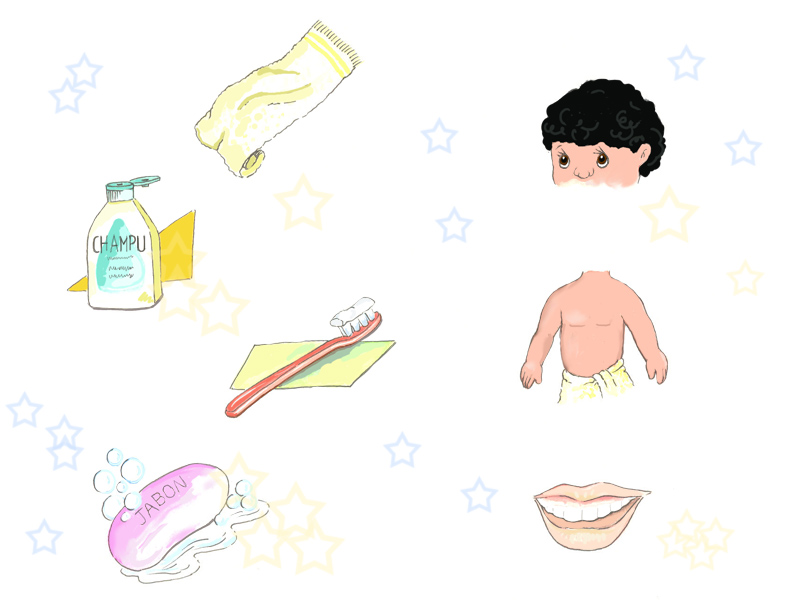
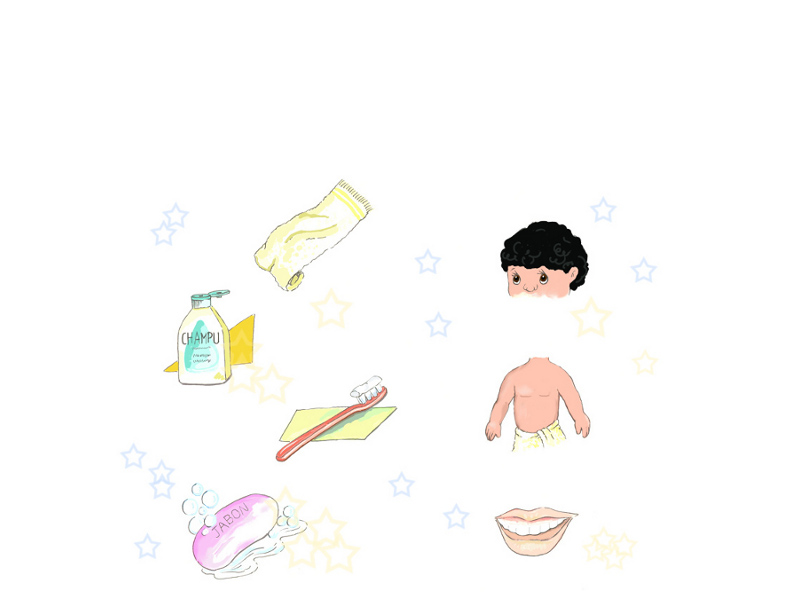
Se crea la versión inicial de la actividad 5
Se crea la versión inicial de la actividad 5, para ello se realizan
las modificaciones a illustration_007.jpg y se modifica menu.py y constants

diff --git a/src/links.py b/src/links.py
@@ -1,0 +1,117 @@
+# vim:ts=4:sts=4:et:nowrap:tw=77
+# -*- coding: utf-8 -*-
+
+import sys
+import pygame
+
+import constants
+import common
+from activity import Activity
+
+# Activity 7
+class Shower(Activity):
+    def __init__(self, screen):
+        Activity.__init__(self, screen)
+        self.items_rect = {
+                'towel': pygame.Rect(260, 186, 102, 100),
+                'shampoo': pygame.Rect(170, 295, 80, 85),
+                'brush': pygame.Rect(285, 385, 105, 65),
+                'soap': pygame.Rect(195, 498, 90, 65),
+                'hair': pygame.Rect(507, 227, 74, 65),
+                'body': pygame.Rect(491, 365, 94, 82),
+                'mouth': pygame.Rect(500, 510, 73, 42),
+                }
+
+        self.selections = []
+        # TODO change the mouse
+	    pygame.mouse.set_visible(True)
+
+    def setup_background(self):
+        self.background = pygame.image.load(constants.illustration_007)
+
+    def setup(self):
+        font_title = pygame.font.SysFont("dejavusans", 48)
+        font_instructions = pygame.font.SysFont("dejavusans", 24)
+
+        title = u"¡A la ducha!"
+        title_width, title_height = font_title.size(title)
+
+        instructions = [u"Une con una flecha lo que necesitas para", 
+                        u"asear cada parte de tu cuerpo."]
+
+        y = title_height / 2
+
+        text = font_title.render(title, True, (102, 102, 102))
+        text_pos = (constants.screen_mode[0]/2.0 - title_width/2.0, y)
+
+        self.screen.blit(self.background, (0,0))
+        self.screen.blit(text, text_pos)
+
+        y += title_height
+        line_width, line_height = font_instructions.size(instructions[0])
+        for line in instructions:
+            text = font_instructions.render(line, True, (102, 102, 102))
+            y += line_height
+            text_pos = (50, y)
+            self.screen.blit(text, text_pos)
+            
+    def handle_events(self):
+        selection = [(0, 0), (0, 0)]
+        self.startline = None
+
+        while True:
+            self.clock.tick(300)
+
+            event = pygame.event.wait()
+            if event.type == pygame.QUIT:
+                self.quit = True
+                return
+            elif event.type == pygame.MOUSEBUTTONDOWN:
+                self.endline = self.startline = pygame.mouse.get_pos()
+            elif event.type == pygame.MOUSEMOTION \
+                    and pygame.mouse.get_pressed()[0]:
+
+                if self.startline == None:
+                    self.endline = self.startline = pygame.mouse.get_pos()
+                else:
+                    self.endline = pygame.mouse.get_pos()
+
+                self.update_screen()
+                pygame.draw.aaline(self.screen, (120, 120, 120), 
+                                   self.startline, self.endline)
+                self.selection = self.startline, self.endline
+            
+            elif event.type == pygame.MOUSEBUTTONUP:
+                self.validate_selection()
+            
+            pygame.display.flip()
+
+    def update_screen(self):
+        self.setup()
+
+        if self.selections:
+            for (start, end), color in self.selections:
+                pygame.draw.aaline(self.screen, color, start, end, 0)
+
+
+    def validate_selection(self):
+        selection = self.selection
+        if self.items_rect['towel'].collidepoint(selection[0]) \
+                and self.items_rect['body'].collidepoint(selection[1]) \
+                or self.items_rect['towel'].collidepoint(selection[1]) \
+                and self.items_rect['body'].collidepoint(selection[0]) \
+                or self.items_rect['shampoo'].collidepoint(selection[0]) \
+                and self.items_rect['hair'].collidepoint(selection[1]) \
+                or self.items_rect['shampoo'].collidepoint(selection[1]) \
+                and self.items_rect['hair'].collidepoint(selection[0]) \
+                or self.items_rect['brush'].collidepoint(selection[0]) \
+                and self.items_rect['mouth'].collidepoint(selection[1]) \
+                or self.items_rect['brush'].collidepoint(selection[1]) \
+                and self.items_rect['mouth'].collidepoint(selection[0]) \
+                or self.items_rect['soap'].collidepoint(selection[0]) \
+                and self.items_rect['body'].collidepoint(selection[1]) \
+                or self.items_rect['soap'].collidepoint(selection[1]) \
+                and self.items_rect['body'].collidepoint(selection[0]):
+                    self.selections.append((selection, (100, 150, 255)))
+        else:
+            self.selections.append((selection, (255, 100, 100)))

diff --git a/src/salud.py b/src/salud.py
@@ -11,6 +11,7 @@ import constants
 import common
 from menu import MenuItem, MenuActivity
 from reads import PoetryActivity, PoetryActivity2
+from links import Shower
 
 def main():
 	# Mixer pre init
@@ -28,8 +29,9 @@ def main():
 	pygame.mouse.set_visible(False)
 
 	items = [
-        MenuItem(constants.readings_filename , PoetryActivity), 
+        MenuItem(constants.readings_filename, PoetryActivity), 
         MenuItem(constants.associations_filename, PoetryActivity2), 
+        MenuItem(constants.associations_filename, Shower), 
     ]
 
 	MenuActivity(screen, items).run()

diff --git a/src/constants.py b/src/constants.py
@@ -38,6 +38,9 @@ associations_hover_filename = os.path.join(icons_folder, "gartoon", "association
 illustration_008 = os.path.join(data_folder, "backgrounds", "illustration_008.jpg")
 illustration_012 = os.path.join(data_folder, "backgrounds", "illustration_012.jpg")
 
+# Shower
+illustration_007 = os.path.join(data_folder, "backgrounds", "illustration_007.jpg")
+
 poetry = os.path.join(data_folder, "poetries", "poetry.txt")
 poetry2 = os.path.join(data_folder, "poetries", "poetry2.txt")
 

diff --git a/src/menu.py b/src/menu.py
@@ -1,3 +1,4 @@
+# vim:ts=4:sts=4:et:nowrap:tw=77
 # -*- coding: utf-8 -*-
 
 import math
